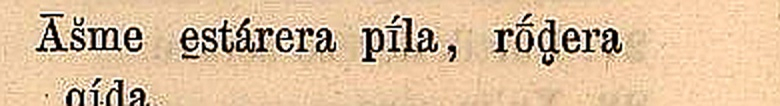
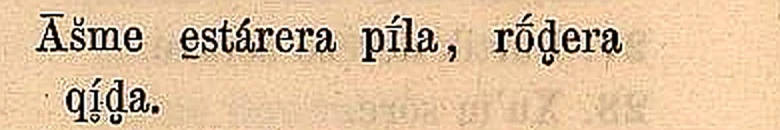
Clean Bacmeister review notes

diff --git a/scripts/build_lerch_bacmeister_text.py b/scripts/build_lerch_bacmeister_text.py
@@ -223,8 +223,8 @@ BACMEISTER_MORPHEME_OVERRIDES: dict[tuple[int, int], list[tuple[str, str]]] = {
     (14, 9): [("k", "do"), ("ên", "IPFV"), ("û", "3SG.M")],
     (14, 13): [("van", "say/sing"), ("û", "3SG.M")],
     (14, 16): [("'how", "laugh"), ("ên", "IPFV"), ("û", "3SG.M")],
-    (17, 6): [("nyê", "NEG"), ("şna", "can/know?")],
-    (17, 7): [("w", "hear"), ("ên", "IPFV"), ("a", "3SG.F")],
+    (17, 6): [("nyê", "NEG")],
+    (17, 7): [("şnaw", "hear"), ("ên", "IPFV"), ("a", "3SG.F")],
     (18, 4): [("nêy", "come"), ("ên", "IPFV"), ("û", "3SG.M")],
     (19, 4): [("kawt", "fall"), ("a", "PST.3SG.F")],
     (20, 4): [("rûênişt", "sit"), ("û", "PTCP.M")],
